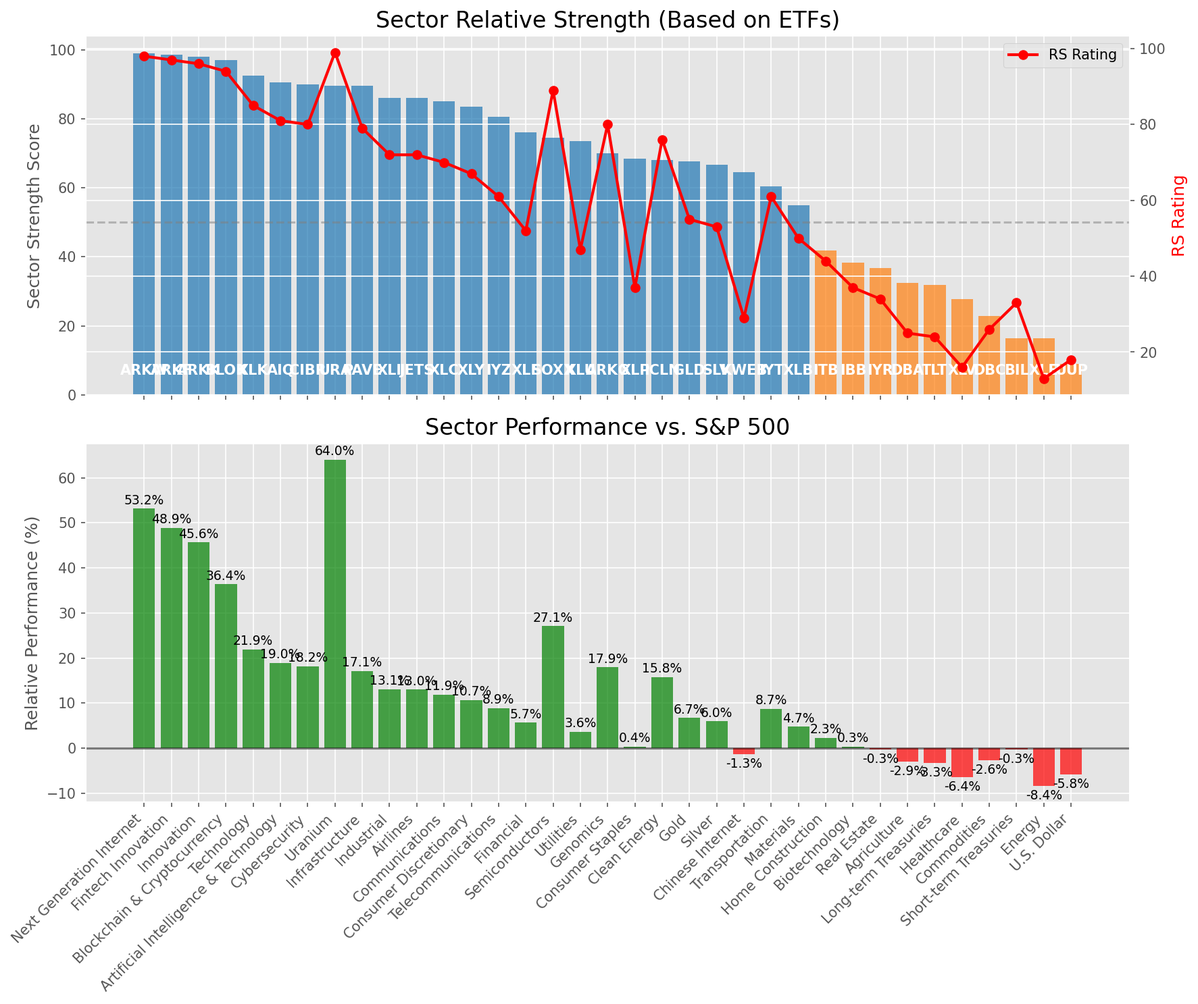
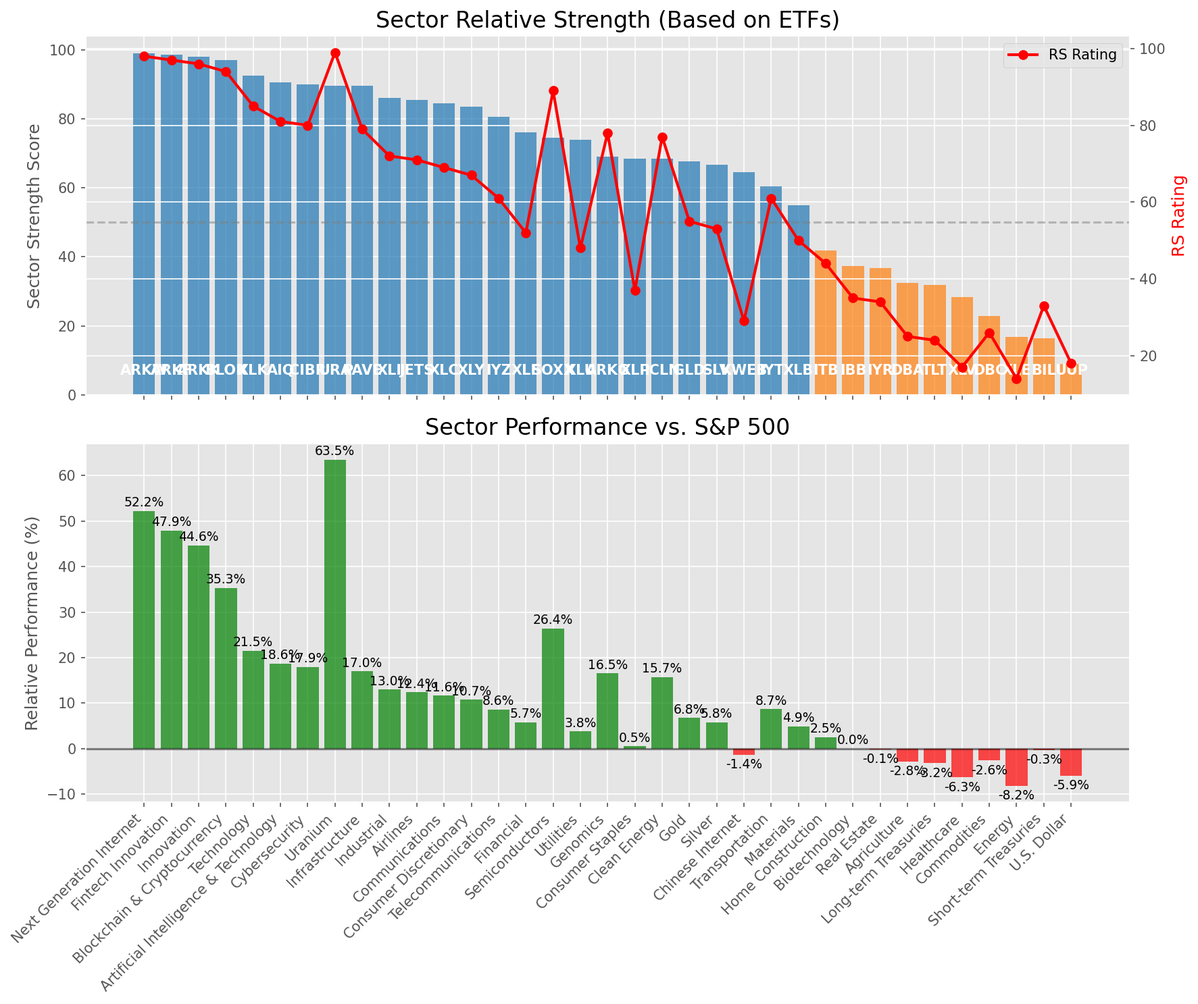
Add market report for 2025-07-01

diff --git a/oneil_relative_strength_report_2025-07-01.md b/oneil_relative_strength_report_2025-07-01.md
@@ -9,11 +9,11 @@
 | Metric | Value |
 |--------|-------|
 | **Market Valuation** | **Overvalued** |
-| **Current Ratio** | 10.16 |
+| **Current Ratio** | 10.15 |
 | **Historical Mean** | 9.36 |
 | **Standard Deviation** | 0.46 |
 | **Z-Score (StdDev from Mean)** | 1.69 |
-| **Total Market Cap** | $304.34 trillion |
+| **Total Market Cap** | $304.08 trillion |
 | **GDP** | $29.96 trillion |
 
 ## **Market Insights**
@@ -49,41 +49,41 @@ Based on William O'Neil's Relative Strength Methodology
 
 | ETF | Strength | RS Rating | Performance | Above Key MAs | Trend | Sector |
 |-----|----------|-----------|-------------|--------------|-------|--------|
-| [ARKW](https://www.tradingview.com/chart/?symbol=ARKW) | 99.0 | 98.0 | 53.16% | 10d ✓, 50d ✓, 200d ✓ | ↗ | Next Generation Internet |
-| [ARKF](https://www.tradingview.com/chart/?symbol=ARKF) | 98.5 | 97.0 | 48.86% | 10d ✓, 50d ✓, 200d ✓ | ↗ | Fintech Innovation |
-| [ARKK](https://www.tradingview.com/chart/?symbol=ARKK) | 98.0 | 96.0 | 45.65% | 10d ✓, 50d ✓, 200d ✓ | ↗ | Innovation |
-| [BLOK](https://www.tradingview.com/chart/?symbol=BLOK) | 97.0 | 94.0 | 36.35% | 10d ✓, 50d ✓, 200d ✓ | ↗ | Blockchain & Cryptocurrency |
-| [XLK](https://www.tradingview.com/chart/?symbol=XLK) | 92.5 | 85.0 | 21.89% | 10d ✓, 50d ✓, 200d ✓ | ↗ | Technology |
-| [AIQ](https://www.tradingview.com/chart/?symbol=AIQ) | 90.5 | 81.0 | 18.97% | 10d ✓, 50d ✓, 200d ✓ | ↗ | Artificial Intelligence & Technology |
-| [CIBR](https://www.tradingview.com/chart/?symbol=CIBR) | 90.0 | 80.0 | 18.21% | 10d ✓, 50d ✓, 200d ✓ | ↗ | Cybersecurity |
-| [URA](https://www.tradingview.com/chart/?symbol=URA) | 89.6 | 99.0 | 64.01% | 10d ✗, 50d ✓, 200d ✓ | ↗ | Uranium |
-| [PAVE](https://www.tradingview.com/chart/?symbol=PAVE) | 89.5 | 79.0 | 17.15% | 10d ✓, 50d ✓, 200d ✓ | ↗ | Infrastructure |
-| [XLI](https://www.tradingview.com/chart/?symbol=XLI) | 86.0 | 72.0 | 13.09% | 10d ✓, 50d ✓, 200d ✓ | ↗ | Industrial |
-| [JETS](https://www.tradingview.com/chart/?symbol=JETS) | 86.0 | 72.0 | 13.00% | 10d ✓, 50d ✓, 200d ✓ | ↗ | Airlines |
-| [XLC](https://www.tradingview.com/chart/?symbol=XLC) | 85.0 | 70.0 | 11.90% | 10d ✓, 50d ✓, 200d ✓ | ↗ | Communications |
-| [XLY](https://www.tradingview.com/chart/?symbol=XLY) | 83.5 | 67.0 | 10.68% | 10d ✓, 50d ✓, 200d ✓ | ↗ | Consumer Discretionary |
-| [IYZ](https://www.tradingview.com/chart/?symbol=IYZ) | 80.5 | 61.0 | 8.85% | 10d ✓, 50d ✓, 200d ✓ | ↗ | Telecommunications |
-| [XLF](https://www.tradingview.com/chart/?symbol=XLF) | 76.0 | 52.0 | 5.70% | 10d ✓, 50d ✓, 200d ✓ | ↗ | Financial |
-| [SOXX](https://www.tradingview.com/chart/?symbol=SOXX) | 74.5 | 89.0 | 27.06% | 10d ✓, 50d ✓, 200d ✓ | ↘ | Semiconductors |
-| [XLU](https://www.tradingview.com/chart/?symbol=XLU) | 73.5 | 47.0 | 3.65% | 10d ✓, 50d ✓, 200d ✓ | ↗ | Utilities |
-| [ARKG](https://www.tradingview.com/chart/?symbol=ARKG) | 70.0 | 80.0 | 17.94% | 10d ✓, 50d ✓, 200d ✓ | ↘ | Genomics |
-| [XLP](https://www.tradingview.com/chart/?symbol=XLP) | 68.5 | 37.0 | 0.37% | 10d ✓, 50d ✓, 200d ✓ | ↗ | Consumer Staples |
-| [ICLN](https://www.tradingview.com/chart/?symbol=ICLN) | 68.0 | 76.0 | 15.81% | 10d ✓, 50d ✓, 200d ✓ | ↘ | Clean Energy |
-| [GLD](https://www.tradingview.com/chart/?symbol=GLD) | 67.6 | 55.0 | 6.72% | 10d ✗, 50d ✓, 200d ✓ | ↗ | Gold |
-| [SLV](https://www.tradingview.com/chart/?symbol=SLV) | 66.6 | 53.0 | 5.99% | 10d ✗, 50d ✓, 200d ✓ | ↗ | Silver |
-| [KWEB](https://www.tradingview.com/chart/?symbol=KWEB) | 64.5 | 29.0 | -1.29% | 10d ✓, 50d ✓, 200d ✓ | ↗ | Chinese Internet |
-| [IYT](https://www.tradingview.com/chart/?symbol=IYT) | 60.5 | 61.0 | 8.74% | 10d ✓, 50d ✓, 200d ✓ | ↘ | Transportation |
-| [XLB](https://www.tradingview.com/chart/?symbol=XLB) | 55.0 | 50.0 | 4.75% | 10d ✓, 50d ✓, 200d ✓ | ↘ | Materials |
-| [ITB](https://www.tradingview.com/chart/?symbol=ITB) | 41.8 | 44.0 | 2.33% | 10d ✓, 50d ✓, 200d ✗ | ↘ | Home Construction |
-| [IBB](https://www.tradingview.com/chart/?symbol=IBB) | 38.3 | 37.0 | 0.31% | 10d ✓, 50d ✓, 200d ✗ | ↘ | Biotechnology |
-| [IYR](https://www.tradingview.com/chart/?symbol=IYR) | 36.8 | 34.0 | -0.26% | 10d ✓, 50d ✓, 200d ✗ | ↘ | Real Estate |
-| [DBA](https://www.tradingview.com/chart/?symbol=DBA) | 32.5 | 25.0 | -2.91% | 10d ✗, 50d ✗, 200d ✗ | ↗ | Agriculture |
-| [TLT](https://www.tradingview.com/chart/?symbol=TLT) | 31.8 | 24.0 | -3.33% | 10d ✓, 50d ✓, 200d ✗ | ↘ | Long-term Treasuries |
-| [XLV](https://www.tradingview.com/chart/?symbol=XLV) | 27.8 | 16.0 | -6.40% | 10d ✓, 50d ✓, 200d ✗ | ↘ | Healthcare |
-| [DBC](https://www.tradingview.com/chart/?symbol=DBC) | 22.9 | 26.0 | -2.64% | 10d ✗, 50d ✓, 200d ✗ | ↘ | Commodities |
-| [BIL](https://www.tradingview.com/chart/?symbol=BIL) | 16.5 | 33.0 | -0.33% | 10d ✗, 50d ✗, 200d ✗ | ↘ | Short-term Treasuries |
-| [XLE](https://www.tradingview.com/chart/?symbol=XLE) | 16.4 | 13.0 | -8.37% | 10d ✗, 50d ✓, 200d ✗ | ↘ | Energy |
-| [UUP](https://www.tradingview.com/chart/?symbol=UUP) | 9.0 | 18.0 | -5.83% | 10d ✗, 50d ✗, 200d ✗ | ↘ | U.S. Dollar |
+| [ARKW](https://www.tradingview.com/chart/?symbol=ARKW) | 99.0 | 98.0 | 52.21% | 10d ✓, 50d ✓, 200d ✓ | ↗ | Next Generation Internet |
+| [ARKF](https://www.tradingview.com/chart/?symbol=ARKF) | 98.5 | 97.0 | 47.87% | 10d ✓, 50d ✓, 200d ✓ | ↗ | Fintech Innovation |
+| [ARKK](https://www.tradingview.com/chart/?symbol=ARKK) | 98.0 | 96.0 | 44.61% | 10d ✓, 50d ✓, 200d ✓ | ↗ | Innovation |
+| [BLOK](https://www.tradingview.com/chart/?symbol=BLOK) | 97.0 | 94.0 | 35.30% | 10d ✓, 50d ✓, 200d ✓ | ↗ | Blockchain & Cryptocurrency |
+| [XLK](https://www.tradingview.com/chart/?symbol=XLK) | 92.5 | 85.0 | 21.47% | 10d ✓, 50d ✓, 200d ✓ | ↗ | Technology |
+| [AIQ](https://www.tradingview.com/chart/?symbol=AIQ) | 90.5 | 81.0 | 18.64% | 10d ✓, 50d ✓, 200d ✓ | ↗ | Artificial Intelligence & Technology |
+| [CIBR](https://www.tradingview.com/chart/?symbol=CIBR) | 90.0 | 80.0 | 17.90% | 10d ✓, 50d ✓, 200d ✓ | ↗ | Cybersecurity |
+| [URA](https://www.tradingview.com/chart/?symbol=URA) | 89.6 | 99.0 | 63.48% | 10d ✗, 50d ✓, 200d ✓ | ↗ | Uranium |
+| [PAVE](https://www.tradingview.com/chart/?symbol=PAVE) | 89.5 | 79.0 | 16.96% | 10d ✓, 50d ✓, 200d ✓ | ↗ | Infrastructure |
+| [XLI](https://www.tradingview.com/chart/?symbol=XLI) | 86.0 | 72.0 | 12.97% | 10d ✓, 50d ✓, 200d ✓ | ↗ | Industrial |
+| [JETS](https://www.tradingview.com/chart/?symbol=JETS) | 85.5 | 71.0 | 12.40% | 10d ✓, 50d ✓, 200d ✓ | ↗ | Airlines |
+| [XLC](https://www.tradingview.com/chart/?symbol=XLC) | 84.5 | 69.0 | 11.62% | 10d ✓, 50d ✓, 200d ✓ | ↗ | Communications |
+| [XLY](https://www.tradingview.com/chart/?symbol=XLY) | 83.5 | 67.0 | 10.74% | 10d ✓, 50d ✓, 200d ✓ | ↗ | Consumer Discretionary |
+| [IYZ](https://www.tradingview.com/chart/?symbol=IYZ) | 80.5 | 61.0 | 8.63% | 10d ✓, 50d ✓, 200d ✓ | ↗ | Telecommunications |
+| [XLF](https://www.tradingview.com/chart/?symbol=XLF) | 76.0 | 52.0 | 5.73% | 10d ✓, 50d ✓, 200d ✓ | ↗ | Financial |
+| [SOXX](https://www.tradingview.com/chart/?symbol=SOXX) | 74.5 | 89.0 | 26.40% | 10d ✓, 50d ✓, 200d ✓ | ↘ | Semiconductors |
+| [XLU](https://www.tradingview.com/chart/?symbol=XLU) | 74.0 | 48.0 | 3.80% | 10d ✓, 50d ✓, 200d ✓ | ↗ | Utilities |
+| [ARKG](https://www.tradingview.com/chart/?symbol=ARKG) | 69.0 | 78.0 | 16.52% | 10d ✓, 50d ✓, 200d ✓ | ↘ | Genomics |
+| [XLP](https://www.tradingview.com/chart/?symbol=XLP) | 68.5 | 37.0 | 0.51% | 10d ✓, 50d ✓, 200d ✓ | ↗ | Consumer Staples |
+| [ICLN](https://www.tradingview.com/chart/?symbol=ICLN) | 68.5 | 77.0 | 15.72% | 10d ✓, 50d ✓, 200d ✓ | ↘ | Clean Energy |
+| [GLD](https://www.tradingview.com/chart/?symbol=GLD) | 67.6 | 55.0 | 6.76% | 10d ✗, 50d ✓, 200d ✓ | ↗ | Gold |
+| [SLV](https://www.tradingview.com/chart/?symbol=SLV) | 66.6 | 53.0 | 5.82% | 10d ✗, 50d ✓, 200d ✓ | ↗ | Silver |
+| [KWEB](https://www.tradingview.com/chart/?symbol=KWEB) | 64.5 | 29.0 | -1.39% | 10d ✓, 50d ✓, 200d ✓ | ↗ | Chinese Internet |
+| [IYT](https://www.tradingview.com/chart/?symbol=IYT) | 60.5 | 61.0 | 8.68% | 10d ✓, 50d ✓, 200d ✓ | ↘ | Transportation |
+| [XLB](https://www.tradingview.com/chart/?symbol=XLB) | 55.0 | 50.0 | 4.88% | 10d ✓, 50d ✓, 200d ✓ | ↘ | Materials |
+| [ITB](https://www.tradingview.com/chart/?symbol=ITB) | 41.8 | 44.0 | 2.53% | 10d ✓, 50d ✓, 200d ✗ | ↘ | Home Construction |
+| [IBB](https://www.tradingview.com/chart/?symbol=IBB) | 37.3 | 35.0 | 0.01% | 10d ✓, 50d ✓, 200d ✗ | ↘ | Biotechnology |
+| [IYR](https://www.tradingview.com/chart/?symbol=IYR) | 36.8 | 34.0 | -0.15% | 10d ✓, 50d ✓, 200d ✗ | ↘ | Real Estate |
+| [DBA](https://www.tradingview.com/chart/?symbol=DBA) | 32.5 | 25.0 | -2.84% | 10d ✗, 50d ✗, 200d ✗ | ↗ | Agriculture |
+| [TLT](https://www.tradingview.com/chart/?symbol=TLT) | 31.8 | 24.0 | -3.21% | 10d ✓, 50d ✓, 200d ✗ | ↘ | Long-term Treasuries |
+| [XLV](https://www.tradingview.com/chart/?symbol=XLV) | 28.3 | 17.0 | -6.34% | 10d ✓, 50d ✓, 200d ✗ | ↘ | Healthcare |
+| [DBC](https://www.tradingview.com/chart/?symbol=DBC) | 22.9 | 26.0 | -2.60% | 10d ✗, 50d ✓, 200d ✗ | ↘ | Commodities |
+| [XLE](https://www.tradingview.com/chart/?symbol=XLE) | 16.9 | 14.0 | -8.20% | 10d ✗, 50d ✓, 200d ✗ | ↘ | Energy |
+| [BIL](https://www.tradingview.com/chart/?symbol=BIL) | 16.5 | 33.0 | -0.32% | 10d ✗, 50d ✗, 200d ✗ | ↘ | Short-term Treasuries |
+| [UUP](https://www.tradingview.com/chart/?symbol=UUP) | 9.0 | 18.0 | -5.90% | 10d ✗, 50d ✗, 200d ✗ | ↘ | U.S. Dollar |
 
 ### **Sector ETF Performance Interpretation**
 
@@ -100,151 +100,144 @@ This table shows the relative strength metrics for different market sectors base
 
 The current market leadership is coming from the following sectors: **Next Generation Internet, Fintech Innovation, Innovation**.
 
-The **Next Generation Internet** sector (represented by **ARKW**) is showing particularly strong relative strength with an RS rating of 98.0 and performance of 53.16% vs. the S&P 500. This sector is trading above its 10-day, 50-day, 200-day moving average(s). Investors should consider focusing on high RS stocks within these leading sectors for potential outperformance.
+The **Next Generation Internet** sector (represented by **ARKW**) is showing particularly strong relative strength with an RS rating of 98.0 and performance of 52.21% vs. the S&P 500. This sector is trading above its 10-day, 50-day, 200-day moving average(s). Investors should consider focusing on high RS stocks within these leading sectors for potential outperformance.
 
 ---
 
 ## **Buy Recommendations**
 
-The following 64 stocks show exceptional relative strength:
+The following 62 stocks show exceptional relative strength:
 
 | RS Rating | Buy Score | Current Price | Chart | Name | Ticker |
 |-----------|-----------|---------------|-------|------|--------|
-| 100 | 100 | $148.24 | [Chart](https://www.tradingview.com/chart/?symbol=CLS) | Celestica, Inc. | CLS |
-| 100 | 100 | $169.52 | [Chart](https://www.tradingview.com/chart/?symbol=SEZL) | Sezzle Inc. Common Stock | SEZL |
-| 100 | 100 | $93.78 | [Chart](https://www.tradingview.com/chart/?symbol=HOOD) | Robinhood Markets, Inc. Class A Common Stock | HOOD |
-| 100 | 100 | $259.69 | [Chart](https://www.tradingview.com/chart/?symbol=DAVE) | Dave Inc. Class A Common Stock | DAVE |
-| 99 | 100 | $339.61 | [Chart](https://www.tradingview.com/chart/?symbol=CVNA) | Carvana Co. | CVNA |
-| 99 | 100 | $74.10 | [Chart](https://www.tradingview.com/chart/?symbol=ODD) | ODDITY Tech Ltd. Class A Ordinary Shares | ODD |
-| 99 | 100 | $156.79 | [Chart](https://www.tradingview.com/chart/?symbol=NRG) | NRG Energy, Inc. | NRG |
-| 98 | 100 | $217.11 | [Chart](https://www.tradingview.com/chart/?symbol=JBL) | Jabil Inc. | JBL |
-| 98 | 100 | $316.57 | [Chart](https://www.tradingview.com/chart/?symbol=RCL) | Royal Caribbean Group | RCL |
+| 100 | 100 | $92.05 | [Chart](https://www.tradingview.com/chart/?symbol=HOOD) | Robinhood Markets, Inc. Class A Common Stock | HOOD |
+| 100 | 100 | $145.97 | [Chart](https://www.tradingview.com/chart/?symbol=CLS) | Celestica, Inc. | CLS |
+| 100 | 100 | $166.86 | [Chart](https://www.tradingview.com/chart/?symbol=SEZL) | Sezzle Inc. Common Stock | SEZL |
+| 100 | 100 | $257.93 | [Chart](https://www.tradingview.com/chart/?symbol=DAVE) | Dave Inc. Class A Common Stock | DAVE |
+| 99 | 100 | $155.76 | [Chart](https://www.tradingview.com/chart/?symbol=NRG) | NRG Energy, Inc. | NRG |
+| 99 | 100 | $336.33 | [Chart](https://www.tradingview.com/chart/?symbol=CVNA) | Carvana Co. | CVNA |
+| 99 | 100 | $73.97 | [Chart](https://www.tradingview.com/chart/?symbol=ODD) | ODDITY Tech Ltd. Class A Ordinary Shares | ODD |
+| 98 | 100 | $215.69 | [Chart](https://www.tradingview.com/chart/?symbol=JBL) | Jabil Inc. | JBL |
 | 98 | 100 | $43.95 | [Chart](https://www.tradingview.com/chart/?symbol=FARO) | Faro Technologies Inc | FARO |
-| 97 | 100 | $272.96 | [Chart](https://www.tradingview.com/chart/?symbol=CRS) | Carpenter Technology Corp | CRS |
-| 97 | 100 | $43.47 | [Chart](https://www.tradingview.com/chart/?symbol=KTOS) | Kratos Defense & Security Solutions, Inc. | KTOS |
-| 96 | 100 | $53.60 | [Chart](https://www.tradingview.com/chart/?symbol=BBW) | Build-A-Bear Workshop, Inc. | BBW |
-| 96 | 100 | $20.84 | [Chart](https://www.tradingview.com/chart/?symbol=MIR) | Mirion Technologies, Inc. | MIR |
-| 96 | 100 | $38.11 | [Chart](https://www.tradingview.com/chart/?symbol=AS) | Amer Sports, Inc. | AS |
-| 95 | 100 | $1300.14 | [Chart](https://www.tradingview.com/chart/?symbol=NFLX) | NetFlix Inc | NFLX |
-| 95 | 100 | $21.27 | [Chart](https://www.tradingview.com/chart/?symbol=MAG) | MAG Silver Corp. | MAG |
-| 95 | 100 | $74.01 | [Chart](https://www.tradingview.com/chart/?symbol=URBN) | Urban Outfitters Inc | URBN |
-| 95 | 100 | $493.84 | [Chart](https://www.tradingview.com/chart/?symbol=CRWD) | CrowdStrike Holdings, Inc. Class A Common Stock | CRWD |
-| 95 | 100 | $45.50 | [Chart](https://www.tradingview.com/chart/?symbol=DRS) | Leonardo DRS, Inc. Common Stock | DRS |
-| 94 | 100 | $178.12 | [Chart](https://www.tradingview.com/chart/?symbol=HWM) | Howmet Aerospace Inc. | HWM |
-| 94 | 100 | $56.38 | [Chart](https://www.tradingview.com/chart/?symbol=IBKR) | Interactive Brokers Group, Inc. Class A Common Stock | IBKR |
-| 93 | 100 | $246.53 | [Chart](https://www.tradingview.com/chart/?symbol=WWD) | Woodward, Inc. | WWD |
-| 93 | 100 | $42.44 | [Chart](https://www.tradingview.com/chart/?symbol=KD) | Kyndryl Holdings, Inc. | KD |
-| 93 | 100 | $48.24 | [Chart](https://www.tradingview.com/chart/?symbol=INOD) | Innodata Inc. | INOD |
-| 92 | 100 | $105.20 | [Chart](https://www.tradingview.com/chart/?symbol=JCI) | Johnson Controls International plc | JCI |
-| 92 | 100 | $43.39 | [Chart](https://www.tradingview.com/chart/?symbol=TOST) | Toast, Inc. | TOST |
-| 92 | 100 | $17.58 | [Chart](https://www.tradingview.com/chart/?symbol=DAN) | Dana Incorporated | DAN |
-| 92 | 100 | $135.06 | [Chart](https://www.tradingview.com/chart/?symbol=NTES) | NetEase, inc. | NTES |
-| 92 | 100 | $239.09 | [Chart](https://www.tradingview.com/chart/?symbol=DASH) | DoorDash, Inc. Class A Common Stock | DASH |
-| 92 | 100 | $64.18 | [Chart](https://www.tradingview.com/chart/?symbol=CAKE) | Cheesecake Factory (The) | CAKE |
-| 91 | 100 | $25.00 | [Chart](https://www.tradingview.com/chart/?symbol=KAR) | OPENLANE, Inc | KAR |
-| 91 | 100 | $32.62 | [Chart](https://www.tradingview.com/chart/?symbol=PRDO) | Perdoceo Education Corporation | PRDO |
-| 91 | 100 | $98.92 | [Chart](https://www.tradingview.com/chart/?symbol=SANM) | Sanmina  Corp | SANM |
-| 90 | 100 | $60.26 | [Chart](https://www.tradingview.com/chart/?symbol=IBIT) | iShares Bitcoin Trust ETF | IBIT |
-| 90 | 100 | $27.72 | [Chart](https://www.tradingview.com/chart/?symbol=SRAD) | Sportradar Group AG Class A Ordinary Shares | SRAD |
-| 89 | 100 | $152.38 | [Chart](https://www.tradingview.com/chart/?symbol=COOP) | Mr. Cooper Group Inc. Common Stock | COOP |
-| 88 | 100 | $88.06 | [Chart](https://www.tradingview.com/chart/?symbol=TPR) | Tapestry, Inc. Common Stock | TPR |
-| 87 | 100 | $185.30 | [Chart](https://www.tradingview.com/chart/?symbol=EAT) | Brinker International, Inc. | EAT |
-| 88 | 99 | $5762.92 | [Chart](https://www.tradingview.com/chart/?symbol=BKNG) | Booking Holdings Inc. Common Stock | BKNG |
-| 88 | 99 | $250.64 | [Chart](https://www.tradingview.com/chart/?symbol=GE) | GE Aerospace | GE |
-| 83 | 97 | $21.34 | [Chart](https://www.tradingview.com/chart/?symbol=KT) | KT Corp. | KT |
-| 85 | 96 | $282.66 | [Chart](https://www.tradingview.com/chart/?symbol=VEEV) | Veeva Systems Inc. | VEEV |
-| 82 | 96 | $91.16 | [Chart](https://www.tradingview.com/chart/?symbol=SNEX) | StoneX Group Inc. Common Stock | SNEX |
-| 86 | 95 | $48.66 | [Chart](https://www.tradingview.com/chart/?symbol=SIL) | Global X Silver Miners ETF (NEW) | SIL |
-| 84 | 95 | $27.73 | [Chart](https://www.tradingview.com/chart/?symbol=UVE) | UNIVERSAL INSURANCE HLDG, INC. | UVE |
-| 84 | 95 | $185.82 | [Chart](https://www.tradingview.com/chart/?symbol=ITA) | iShares U.S. Aerospace & Defense ETF | ITA |
-| 82 | 95 | $18.34 | [Chart](https://www.tradingview.com/chart/?symbol=BCS) | Barclays PLC | BCS |
-| 82 | 95 | $36.22 | [Chart](https://www.tradingview.com/chart/?symbol=AHR) | American Healthcare REIT, Inc. | AHR |
-| 84 | 94 | $140.26 | [Chart](https://www.tradingview.com/chart/?symbol=PPA) | Invesco Aerospace & Defense ETF | PPA |
-| 81 | 94 | $29.29 | [Chart](https://www.tradingview.com/chart/?symbol=CAE) | CAE INC | CAE |
-| 83 | 93 | $215.99 | [Chart](https://www.tradingview.com/chart/?symbol=COF) | Capital One Financial | COF |
-| 83 | 93 | $111.00 | [Chart](https://www.tradingview.com/chart/?symbol=SPMO) | Invesco S&P 500 Momentum ETF | SPMO |
-| 83 | 93 | $29.48 | [Chart](https://www.tradingview.com/chart/?symbol=NTGR) | NETGEAR, Inc. | NTGR |
+| 98 | 100 | $314.44 | [Chart](https://www.tradingview.com/chart/?symbol=RCL) | Royal Caribbean Group | RCL |
+| 98 | 100 | $272.34 | [Chart](https://www.tradingview.com/chart/?symbol=CRS) | Carpenter Technology Corp | CRS |
+| 96 | 100 | $52.68 | [Chart](https://www.tradingview.com/chart/?symbol=BBW) | Build-A-Bear Workshop, Inc. | BBW |
+| 95 | 100 | $73.55 | [Chart](https://www.tradingview.com/chart/?symbol=URBN) | Urban Outfitters Inc | URBN |
+| 95 | 100 | $1296.14 | [Chart](https://www.tradingview.com/chart/?symbol=NFLX) | NetFlix Inc | NFLX |
+| 95 | 100 | $37.48 | [Chart](https://www.tradingview.com/chart/?symbol=AS) | Amer Sports, Inc. | AS |
+| 94 | 100 | $177.13 | [Chart](https://www.tradingview.com/chart/?symbol=HWM) | Howmet Aerospace Inc. | HWM |
+| 94 | 100 | $56.21 | [Chart](https://www.tradingview.com/chart/?symbol=IBKR) | Interactive Brokers Group, Inc. Class A Common Stock | IBKR |
+| 94 | 100 | $45.28 | [Chart](https://www.tradingview.com/chart/?symbol=DRS) | Leonardo DRS, Inc. Common Stock | DRS |
+| 93 | 100 | $17.55 | [Chart](https://www.tradingview.com/chart/?symbol=DAN) | Dana Incorporated | DAN |
+| 93 | 100 | $41.84 | [Chart](https://www.tradingview.com/chart/?symbol=KD) | Kyndryl Holdings, Inc. | KD |
+| 93 | 100 | $244.74 | [Chart](https://www.tradingview.com/chart/?symbol=WWD) | Woodward, Inc. | WWD |
+| 92 | 100 | $43.10 | [Chart](https://www.tradingview.com/chart/?symbol=TOST) | Toast, Inc. | TOST |
+| 92 | 100 | $64.01 | [Chart](https://www.tradingview.com/chart/?symbol=CAKE) | Cheesecake Factory (The) | CAKE |
+| 92 | 100 | $238.26 | [Chart](https://www.tradingview.com/chart/?symbol=DASH) | DoorDash, Inc. Class A Common Stock | DASH |
+| 92 | 100 | $134.84 | [Chart](https://www.tradingview.com/chart/?symbol=NTES) | NetEase, inc. | NTES |
+| 92 | 100 | $104.45 | [Chart](https://www.tradingview.com/chart/?symbol=JCI) | Johnson Controls International plc | JCI |
+| 91 | 100 | $98.45 | [Chart](https://www.tradingview.com/chart/?symbol=SANM) | Sanmina  Corp | SANM |
+| 90 | 100 | $24.71 | [Chart](https://www.tradingview.com/chart/?symbol=KAR) | OPENLANE, Inc | KAR |
+| 90 | 100 | $27.68 | [Chart](https://www.tradingview.com/chart/?symbol=SRAD) | Sportradar Group AG Class A Ordinary Shares | SRAD |
+| 90 | 100 | $153.14 | [Chart](https://www.tradingview.com/chart/?symbol=COOP) | Mr. Cooper Group Inc. Common Stock | COOP |
+| 88 | 100 | $87.21 | [Chart](https://www.tradingview.com/chart/?symbol=TPR) | Tapestry, Inc. Common Stock | TPR |
+| 87 | 100 | $184.36 | [Chart](https://www.tradingview.com/chart/?symbol=EAT) | Brinker International, Inc. | EAT |
+| 88 | 99 | $5735.26 | [Chart](https://www.tradingview.com/chart/?symbol=BKNG) | Booking Holdings Inc. Common Stock | BKNG |
+| 88 | 99 | $249.80 | [Chart](https://www.tradingview.com/chart/?symbol=GE) | GE Aerospace | GE |
+| 84 | 98 | $21.34 | [Chart](https://www.tradingview.com/chart/?symbol=KT) | KT Corp. | KT |
+| 87 | 97 | $106.16 | [Chart](https://www.tradingview.com/chart/?symbol=PSMT) | Pricesmart Inc | PSMT |
+| 87 | 96 | $65.25 | [Chart](https://www.tradingview.com/chart/?symbol=RYTM) | Rhythm Pharmaceuticals, Inc. Common Stock | RYTM |
+| 85 | 96 | $282.87 | [Chart](https://www.tradingview.com/chart/?symbol=VEEV) | Veeva Systems Inc. | VEEV |
+| 85 | 96 | $27.73 | [Chart](https://www.tradingview.com/chart/?symbol=UVE) | UNIVERSAL INSURANCE HLDG, INC. | UVE |
+| 86 | 95 | $48.39 | [Chart](https://www.tradingview.com/chart/?symbol=SIL) | Global X Silver Miners ETF (NEW) | SIL |
+| 84 | 95 | $185.15 | [Chart](https://www.tradingview.com/chart/?symbol=ITA) | iShares U.S. Aerospace & Defense ETF | ITA |
+| 82 | 95 | $29.26 | [Chart](https://www.tradingview.com/chart/?symbol=CAE) | CAE INC | CAE |
+| 82 | 95 | $18.32 | [Chart](https://www.tradingview.com/chart/?symbol=BCS) | Barclays PLC | BCS |
+| 82 | 95 | $36.17 | [Chart](https://www.tradingview.com/chart/?symbol=AHR) | American Healthcare REIT, Inc. | AHR |
+| 81 | 95 | $90.67 | [Chart](https://www.tradingview.com/chart/?symbol=SNEX) | StoneX Group Inc. Common Stock | SNEX |
+| 84 | 94 | $139.90 | [Chart](https://www.tradingview.com/chart/?symbol=PPA) | Invesco Aerospace & Defense ETF | PPA |
+| 82 | 94 | $120.83 | [Chart](https://www.tradingview.com/chart/?symbol=EHC) | Encompass Health Corporation Common Stock | EHC |
+| 83 | 93 | $215.20 | [Chart](https://www.tradingview.com/chart/?symbol=COF) | Capital One Financial | COF |
+| 83 | 93 | $110.75 | [Chart](https://www.tradingview.com/chart/?symbol=SPMO) | Invesco S&P 500 Momentum ETF | SPMO |
+| 83 | 93 | $29.37 | [Chart](https://www.tradingview.com/chart/?symbol=NTGR) | NETGEAR, Inc. | NTGR |
 | 82 | 93 | $75.15 | [Chart](https://www.tradingview.com/chart/?symbol=CTVA) | Corteva, Inc. Common Stock | CTVA |
-| 81 | 93 | $81.12 | [Chart](https://www.tradingview.com/chart/?symbol=LLYVK) | Liberty Media Corporation Series C Liberty Live Common Stock | LLYVK |
-| 80 | 93 | $43.53 | [Chart](https://www.tradingview.com/chart/?symbol=EXEL) | Exelixis Inc | EXEL |
-| 82 | 92 | $50.96 | [Chart](https://www.tradingview.com/chart/?symbol=GH) | Guardant Health, Inc. Common Stock | GH |
-| 81 | 92 | $77.68 | [Chart](https://www.tradingview.com/chart/?symbol=USFD) | US Foods Holding Corp. | USFD |
-| 80 | 92 | $74.47 | [Chart](https://www.tradingview.com/chart/?symbol=CIBR) | First Trust Exchange-Traded Fund II First Trust NASDAQ Cybersecurity ETF | CIBR |
-| 82 | 91 | $122.30 | [Chart](https://www.tradingview.com/chart/?symbol=FUTU) | Futu Holdings Limited American Depositary Shares | FUTU |
-| 80 | 91 | $100.76 | [Chart](https://www.tradingview.com/chart/?symbol=LBRDK) | Liberty Broadband Corporation Class C | LBRDK |
-| 80 | 91 | $221.37 | [Chart](https://www.tradingview.com/chart/?symbol=BAP) | Credicorp LTD | BAP |
-| 80 | 90 | $91.52 | [Chart](https://www.tradingview.com/chart/?symbol=SEIC) | SEI Investments Co | SEIC |
+| 81 | 93 | $80.64 | [Chart](https://www.tradingview.com/chart/?symbol=LLYVK) | Liberty Media Corporation Series C Liberty Live Common Stock | LLYVK |
+| 80 | 93 | $43.38 | [Chart](https://www.tradingview.com/chart/?symbol=EXEL) | Exelixis Inc | EXEL |
+| 80 | 93 | $291.76 | [Chart](https://www.tradingview.com/chart/?symbol=IBM) | International Business Machines Corporation | IBM |
+| 81 | 92 | $100.85 | [Chart](https://www.tradingview.com/chart/?symbol=LBRDK) | Liberty Broadband Corporation Class C | LBRDK |
+| 81 | 92 | $77.58 | [Chart](https://www.tradingview.com/chart/?symbol=USFD) | US Foods Holding Corp. | USFD |
+| 80 | 92 | $74.28 | [Chart](https://www.tradingview.com/chart/?symbol=CIBR) | First Trust Exchange-Traded Fund II First Trust NASDAQ Cybersecurity ETF | CIBR |
+| 80 | 92 | $510.33 | [Chart](https://www.tradingview.com/chart/?symbol=CASY) | Casey's General Stores Inc | CASY |
+| 82 | 91 | $121.79 | [Chart](https://www.tradingview.com/chart/?symbol=FUTU) | Futu Holdings Limited American Depositary Shares | FUTU |
+| 80 | 91 | $221.70 | [Chart](https://www.tradingview.com/chart/?symbol=BAP) | Credicorp LTD | BAP |
+| 80 | 90 | $91.54 | [Chart](https://www.tradingview.com/chart/?symbol=SEIC) | SEI Investments Co | SEIC |
+| 80 | 90 | $50.27 | [Chart](https://www.tradingview.com/chart/?symbol=GH) | Guardant Health, Inc. Common Stock | GH |
 
 ---
 
 
 ## **Sell Recommendations**
 
-The following 61 stocks show deteriorating relative strength:
+The following 56 stocks show deteriorating relative strength:
 
 | RS Rating | Sell Score | Current Price | Chart | Name | Ticker |
 |-----------|------------|---------------|-------|------|--------|
-| 1 | 100 | $25.64 | [Chart](https://www.tradingview.com/chart/?symbol=QID) | ProShares UltraShort QQQ | QID |
+| 1 | 100 | $27.58 | [Chart](https://www.tradingview.com/chart/?symbol=TECS) | Direxion Daily Technology Bear 3x Shares | TECS |
+| 1 | 100 | $25.75 | [Chart](https://www.tradingview.com/chart/?symbol=QID) | ProShares UltraShort QQQ | QID |
 | 1 | 100 | $10.09 | [Chart](https://www.tradingview.com/chart/?symbol=HIBS) | Direxion Daily S&P 500 High Beta Bear 3X Shares | HIBS |
-| 1 | 100 | $27.22 | [Chart](https://www.tradingview.com/chart/?symbol=TECS) | Direxion Daily Technology Bear 3x Shares | TECS |
-| 1 | 100 | $14.93 | [Chart](https://www.tradingview.com/chart/?symbol=NVDS) | Investment Managers Series Trust II Tradr 1.5X Short NVDA Daily ETF | NVDS |
-| 1 | 100 | $16.34 | [Chart](https://www.tradingview.com/chart/?symbol=SRTY) | ProShares UltraPro Short Russell2000 | SRTY |
-| 1 | 100 | $13.27 | [Chart](https://www.tradingview.com/chart/?symbol=RXST) | RxSight, Inc. Common Stock | RXST |
+| 1 | 100 | $16.53 | [Chart](https://www.tradingview.com/chart/?symbol=SRTY) | ProShares UltraPro Short Russell2000 | SRTY |
 | 2 | 100 | $12.09 | [Chart](https://www.tradingview.com/chart/?symbol=LBRT) | Liberty Energy Inc. | LBRT |
-| 2 | 100 | $19.97 | [Chart](https://www.tradingview.com/chart/?symbol=BITI) | ProShares Short Bitcoin ETF | BITI |
-| 2 | 100 | $43.62 | [Chart](https://www.tradingview.com/chart/?symbol=LINE) | Lineage, Inc. Common Stock | LINE |
-| 3 | 100 | $12.30 | [Chart](https://www.tradingview.com/chart/?symbol=VFC) | V.F. Corporation | VFC |
-| 3 | 100 | $40.18 | [Chart](https://www.tradingview.com/chart/?symbol=SDOW) | ProShares UltraPro Short Dow 30 | SDOW |
-| 3 | 100 | $10.59 | [Chart](https://www.tradingview.com/chart/?symbol=IMXI) | International Money Express, Inc. | IMXI |
-| 4 | 100 | $25.30 | [Chart](https://www.tradingview.com/chart/?symbol=ASTH) | Astrana Health Inc. Common Stock | ASTH |
-| 4 | 100 | $79.58 | [Chart](https://www.tradingview.com/chart/?symbol=LNTH) | Lantheus Holdings, Inc | LNTH |
+| 2 | 100 | $20.05 | [Chart](https://www.tradingview.com/chart/?symbol=BITI) | ProShares Short Bitcoin ETF | BITI |
+| 2 | 100 | $43.57 | [Chart](https://www.tradingview.com/chart/?symbol=LINE) | Lineage, Inc. Common Stock | LINE |
+| 3 | 100 | $11.78 | [Chart](https://www.tradingview.com/chart/?symbol=NRIX) | Nurix Therapeutics, Inc. Common stock | NRIX |
+| 3 | 100 | $10.54 | [Chart](https://www.tradingview.com/chart/?symbol=IMXI) | International Money Express, Inc. | IMXI |
+| 3 | 100 | $40.16 | [Chart](https://www.tradingview.com/chart/?symbol=SDOW) | ProShares UltraPro Short Dow 30 | SDOW |
+| 3 | 100 | $12.22 | [Chart](https://www.tradingview.com/chart/?symbol=VFC) | V.F. Corporation | VFC |
+| 4 | 100 | $79.80 | [Chart](https://www.tradingview.com/chart/?symbol=LNTH) | Lantheus Holdings, Inc | LNTH |
+| 4 | 100 | $25.14 | [Chart](https://www.tradingview.com/chart/?symbol=ASTH) | Astrana Health Inc. Common Stock | ASTH |
 | 5 | 100 | $17.25 | [Chart](https://www.tradingview.com/chart/?symbol=CODI) | Compass Diversified | CODI |
-| 5 | 100 | $33.88 | [Chart](https://www.tradingview.com/chart/?symbol=PSQ) | ProShares Short QQQ | PSQ |
-| 7 | 100 | $23.73 | [Chart](https://www.tradingview.com/chart/?symbol=DXD) | ProShares UltraShort Dow 30 | DXD |
-| 7 | 100 | $28.67 | [Chart](https://www.tradingview.com/chart/?symbol=CRNX) | Crinetics Pharmaceuticals, Inc. | CRNX |
-| 9 | 100 | $11.71 | [Chart](https://www.tradingview.com/chart/?symbol=KELYA) | Kelly Services Inc | KELYA |
-| 9 | 100 | $25.77 | [Chart](https://www.tradingview.com/chart/?symbol=ZSL) | ProShares UltraShort Silver | ZSL |
-| 9 | 100 | $10.47 | [Chart](https://www.tradingview.com/chart/?symbol=LBTYK) | Liberty Global Ltd. Class C Common Shares | LBTYK |
-| 10 | 100 | $13.72 | [Chart](https://www.tradingview.com/chart/?symbol=OCSL) | Oaktree Specialty Lending Corporation | OCSL |
-| 10 | 100 | $36.23 | [Chart](https://www.tradingview.com/chart/?symbol=SARK) | Investment Managers Series Trust II Tradr 1X Short Innovation Daily ETF | SARK |
-| 10 | 100 | $39.65 | [Chart](https://www.tradingview.com/chart/?symbol=SH) | ProShares Short S&P500 | SH |
-| 12 | 100 | $17.91 | [Chart](https://www.tradingview.com/chart/?symbol=ZTO) | ZTO Express (Cayman) Inc. American Depositary Shares, each representing one Class A ordinary share | ZTO |
-| 3 | 99 | $16.63 | [Chart](https://www.tradingview.com/chart/?symbol=SDS) | ProShares UltraShort S&P500 | SDS |
-| 10 | 99 | $105.58 | [Chart](https://www.tradingview.com/chart/?symbol=PDD) | PDD Holdings Inc. American Depositary Shares | PDD |
-| 14 | 99 | $17.98 | [Chart](https://www.tradingview.com/chart/?symbol=DJT) | Trump Media & Technology Group Corp. Common Stock | DJT |
-| 11 | 97 | $54.27 | [Chart](https://www.tradingview.com/chart/?symbol=CNMD) | CONMED Corporation | CNMD |
-| 16 | 97 | $15.07 | [Chart](https://www.tradingview.com/chart/?symbol=PAXS) | PIMCO Access Income Fund | PAXS |
-| 12 | 96 | $10.22 | [Chart](https://www.tradingview.com/chart/?symbol=LBTYA) | Liberty Global Ltd. Class A Common Shares | LBTYA |
-| 15 | 96 | $25.79 | [Chart](https://www.tradingview.com/chart/?symbol=ATHM) | Autohome Inc. American Depositary Shares, each representing four Class A Ordinary Shares | ATHM |
-| 13 | 95 | $84.78 | [Chart](https://www.tradingview.com/chart/?symbol=KSPI) | Joint Stock Company Kaspi.kz American Depository Shares | KSPI |
-| 16 | 95 | $339.14 | [Chart](https://www.tradingview.com/chart/?symbol=EG) | Everest Group, Ltd. | EG |
-| 16 | 95 | $25.22 | [Chart](https://www.tradingview.com/chart/?symbol=DOG) | ProShares Short Dow30 | DOG |
-| 18 | 95 | $86.69 | [Chart](https://www.tradingview.com/chart/?symbol=BIDU) | Baidu, Inc. | BIDU |
-| 9 | 94 | $48.98 | [Chart](https://www.tradingview.com/chart/?symbol=SNY) | Sanofi American Depositary Shares (Each representing one-half of one ordinary share) | SNY |
+| 5 | 100 | $33.96 | [Chart](https://www.tradingview.com/chart/?symbol=PSQ) | ProShares Short QQQ | PSQ |
+| 7 | 100 | $23.71 | [Chart](https://www.tradingview.com/chart/?symbol=DXD) | ProShares UltraShort Dow 30 | DXD |
+| 7 | 100 | $28.59 | [Chart](https://www.tradingview.com/chart/?symbol=CRNX) | Crinetics Pharmaceuticals, Inc. | CRNX |
+| 9 | 100 | $25.83 | [Chart](https://www.tradingview.com/chart/?symbol=ZSL) | ProShares UltraShort Silver | ZSL |
+| 9 | 100 | $10.46 | [Chart](https://www.tradingview.com/chart/?symbol=LBTYK) | Liberty Global Ltd. Class C Common Shares | LBTYK |
+| 11 | 100 | $17.89 | [Chart](https://www.tradingview.com/chart/?symbol=ZTO) | ZTO Express (Cayman) Inc. American Depositary Shares, each representing one Class A ordinary share | ZTO |
+| 11 | 100 | $36.48 | [Chart](https://www.tradingview.com/chart/?symbol=SARK) | Investment Managers Series Trust II Tradr 1X Short Innovation Daily ETF | SARK |
+| 13 | 100 | $17.78 | [Chart](https://www.tradingview.com/chart/?symbol=DJT) | Trump Media & Technology Group Corp. Common Stock | DJT |
+| 10 | 99 | $39.69 | [Chart](https://www.tradingview.com/chart/?symbol=SH) | ProShares Short S&P500 | SH |
+| 10 | 98 | $105.75 | [Chart](https://www.tradingview.com/chart/?symbol=PDD) | PDD Holdings Inc. American Depositary Shares | PDD |
+| 12 | 98 | $13.88 | [Chart](https://www.tradingview.com/chart/?symbol=OCSL) | Oaktree Specialty Lending Corporation | OCSL |
+| 10 | 97 | $54.05 | [Chart](https://www.tradingview.com/chart/?symbol=CNMD) | CONMED Corporation | CNMD |
+| 17 | 96 | $86.43 | [Chart](https://www.tradingview.com/chart/?symbol=BIDU) | Baidu, Inc. | BIDU |
+| 12 | 95 | $10.20 | [Chart](https://www.tradingview.com/chart/?symbol=LBTYA) | Liberty Global Ltd. Class A Common Shares | LBTYA |
+| 17 | 95 | $15.07 | [Chart](https://www.tradingview.com/chart/?symbol=PAXS) | PIMCO Access Income Fund | PAXS |
+| 9 | 94 | $49.03 | [Chart](https://www.tradingview.com/chart/?symbol=SNY) | Sanofi American Depositary Shares (Each representing one-half of one ordinary share) | SNY |
+| 16 | 94 | $25.22 | [Chart](https://www.tradingview.com/chart/?symbol=DOG) | ProShares Short Dow30 | DOG |
+| 14 | 93 | $14.83 | [Chart](https://www.tradingview.com/chart/?symbol=PLSE) | Pulse Biosciences, Inc Common Stock (DE) | PLSE |
 | 15 | 93 | $21.37 | [Chart](https://www.tradingview.com/chart/?symbol=KIDS) | OrthoPediatrics Corp. Common Stock | KIDS |
-| 11 | 92 | $68.48 | [Chart](https://www.tradingview.com/chart/?symbol=WK) | Workiva Inc. | WK |
-| 12 | 91 | $40.90 | [Chart](https://www.tradingview.com/chart/?symbol=UDR) | UDR, Inc. | UDR |
-| 14 | 91 | $131.57 | [Chart](https://www.tradingview.com/chart/?symbol=KMB) | Kimberly-Clark Corp. | KMB |
-| 17 | 91 | $774.66 | [Chart](https://www.tradingview.com/chart/?symbol=LLY) | Eli Lilly & Co. | LLY |
-| 17 | 90 | $15.12 | [Chart](https://www.tradingview.com/chart/?symbol=PLSE) | Pulse Biosciences, Inc Common Stock (DE) | PLSE |
-| 14 | 89 | $30.59 | [Chart](https://www.tradingview.com/chart/?symbol=AXTA) | Axalta Coating Systems Ltd. | AXTA |
-| 19 | 89 | $36.08 | [Chart](https://www.tradingview.com/chart/?symbol=WPP) | WPP PLC | WPP |
-| 19 | 88 | $291.63 | [Chart](https://www.tradingview.com/chart/?symbol=UTHR) | United Therapeutics Corp | UTHR |
-| 26 | 88 | $28.71 | [Chart](https://www.tradingview.com/chart/?symbol=RNA) | Avidity Biosciences, Inc. Common Stock | RNA |
-| 20 | 87 | $75.50 | [Chart](https://www.tradingview.com/chart/?symbol=TNET) | TRINET GROUP, INC. | TNET |
-| 19 | 86 | $18.88 | [Chart](https://www.tradingview.com/chart/?symbol=MSDL) | Morgan Stanley Direct Lending Fund | MSDL |
+| 17 | 93 | $340.55 | [Chart](https://www.tradingview.com/chart/?symbol=EG) | Everest Group, Ltd. | EG |
+| 23 | 93 | $10.37 | [Chart](https://www.tradingview.com/chart/?symbol=MUC) | BLACKROCK MUNIHOLDINGS CALIFORNIA QUALITY FUND, INC | MUC |
+| 11 | 92 | $68.31 | [Chart](https://www.tradingview.com/chart/?symbol=WK) | Workiva Inc. | WK |
+| 23 | 91 | $28.52 | [Chart](https://www.tradingview.com/chart/?symbol=RNA) | Avidity Biosciences, Inc. Common Stock | RNA |
+| 12 | 90 | $41.06 | [Chart](https://www.tradingview.com/chart/?symbol=UDR) | UDR, Inc. | UDR |
+| 15 | 90 | $132.19 | [Chart](https://www.tradingview.com/chart/?symbol=KMB) | Kimberly-Clark Corp. | KMB |
+| 17 | 90 | $775.67 | [Chart](https://www.tradingview.com/chart/?symbol=LLY) | Eli Lilly & Co. | LLY |
+| 18 | 89 | $290.42 | [Chart](https://www.tradingview.com/chart/?symbol=UTHR) | United Therapeutics Corp | UTHR |
+| 19 | 88 | $35.89 | [Chart](https://www.tradingview.com/chart/?symbol=WPP) | WPP PLC | WPP |
+| 20 | 87 | $75.27 | [Chart](https://www.tradingview.com/chart/?symbol=TNET) | TRINET GROUP, INC. | TNET |
+| 19 | 86 | $18.91 | [Chart](https://www.tradingview.com/chart/?symbol=MSDL) | Morgan Stanley Direct Lending Fund | MSDL |
 | 16 | 85 | $26.06 | [Chart](https://www.tradingview.com/chart/?symbol=DRV) | Direxion Daily Real Estate Bear 3X Shares | DRV |
-| 22 | 84 | $76.95 | [Chart](https://www.tradingview.com/chart/?symbol=CNS) | Cohen & Steers Inc. | CNS |
+| 22 | 84 | $76.92 | [Chart](https://www.tradingview.com/chart/?symbol=CNS) | Cohen & Steers Inc. | CNS |
 | 19 | 83 | $67.97 | [Chart](https://www.tradingview.com/chart/?symbol=BRC) | Brady Corporation | BRC |
-| 21 | 83 | $46.35 | [Chart](https://www.tradingview.com/chart/?symbol=CWT) | California Water Service | CWT |
+| 22 | 82 | $46.59 | [Chart](https://www.tradingview.com/chart/?symbol=CWT) | California Water Service | CWT |
 | 23 | 82 | $41.55 | [Chart](https://www.tradingview.com/chart/?symbol=NBTB) | NBT Bancorp Inc | NBTB |
-| 25 | 81 | $303.41 | [Chart](https://www.tradingview.com/chart/?symbol=ACN) | Accenture PLC | ACN |
-| 31 | 79 | $18.02 | [Chart](https://www.tradingview.com/chart/?symbol=S) | SentinelOne, Inc. | S |
+| 25 | 80 | $302.90 | [Chart](https://www.tradingview.com/chart/?symbol=ACN) | Accenture PLC | ACN |
+| 31 | 78 | $18.07 | [Chart](https://www.tradingview.com/chart/?symbol=S) | SentinelOne, Inc. | S |
 | 32 | 78 | $12.00 | [Chart](https://www.tradingview.com/chart/?symbol=ZVZZT) | SUPER Montage TEST SYMBOL | ZVZZT |
-| 29 | 76 | $52.63 | [Chart](https://www.tradingview.com/chart/?symbol=LW) | Lamb Weston Holdings, Inc. | LW |
-| 31 | 75 | $126.39 | [Chart](https://www.tradingview.com/chart/?symbol=RGEN) | Repligen Corp | RGEN |
+| 29 | 75 | $52.49 | [Chart](https://www.tradingview.com/chart/?symbol=LW) | Lamb Weston Holdings, Inc. | LW |
+| 30 | 75 | $125.89 | [Chart](https://www.tradingview.com/chart/?symbol=RGEN) | Repligen Corp | RGEN |
 | 32 | 70 | $23.09 | [Chart](https://www.tradingview.com/chart/?symbol=IBHF) | iShares iBonds 2026 Term High Yield and Income ETF | IBHF |
-| 31 | 69 | $38.87 | [Chart](https://www.tradingview.com/chart/?symbol=LZB) | La-Z-Boy Incorporated | LZB |
+| 33 | 67 | $38.98 | [Chart](https://www.tradingview.com/chart/?symbol=LZB) | La-Z-Boy Incorporated | LZB |
 
 ## **Methodology**
 
